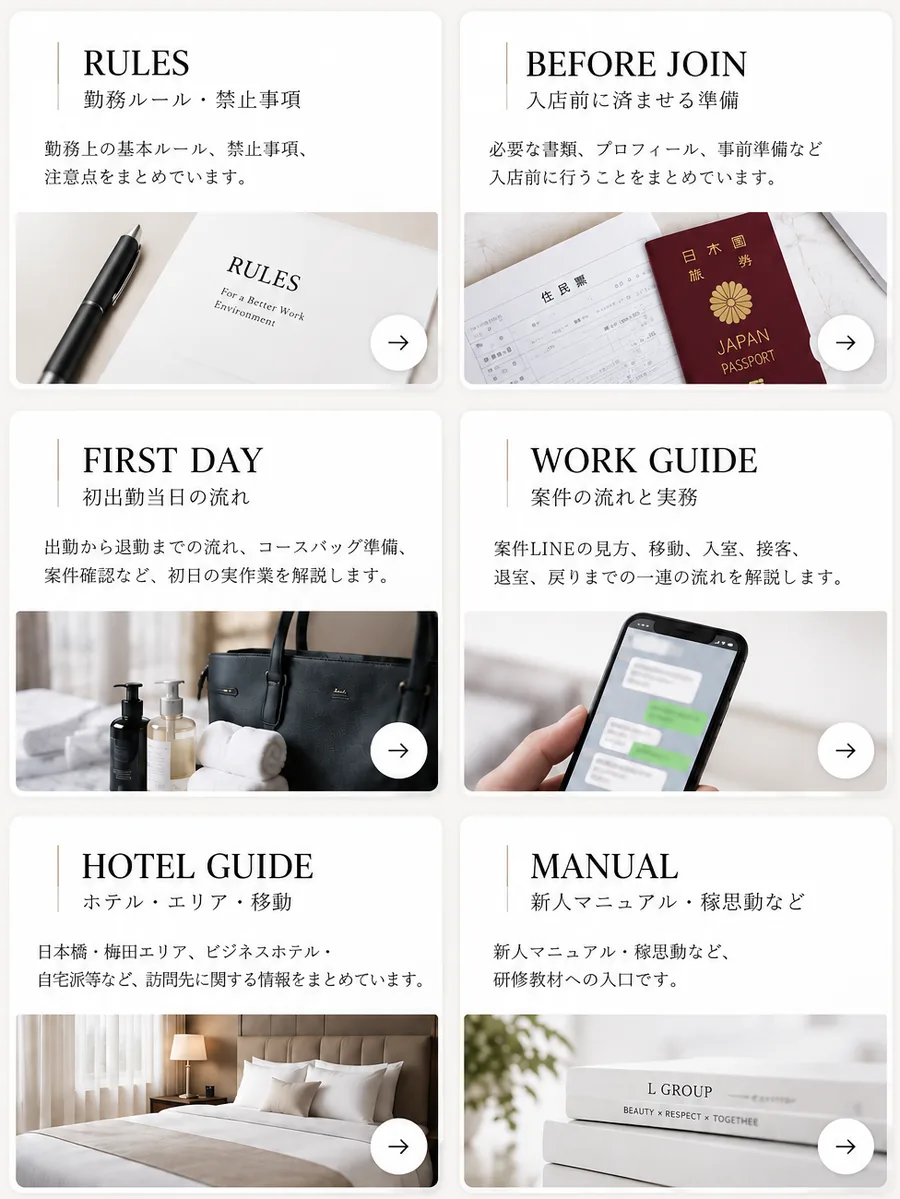
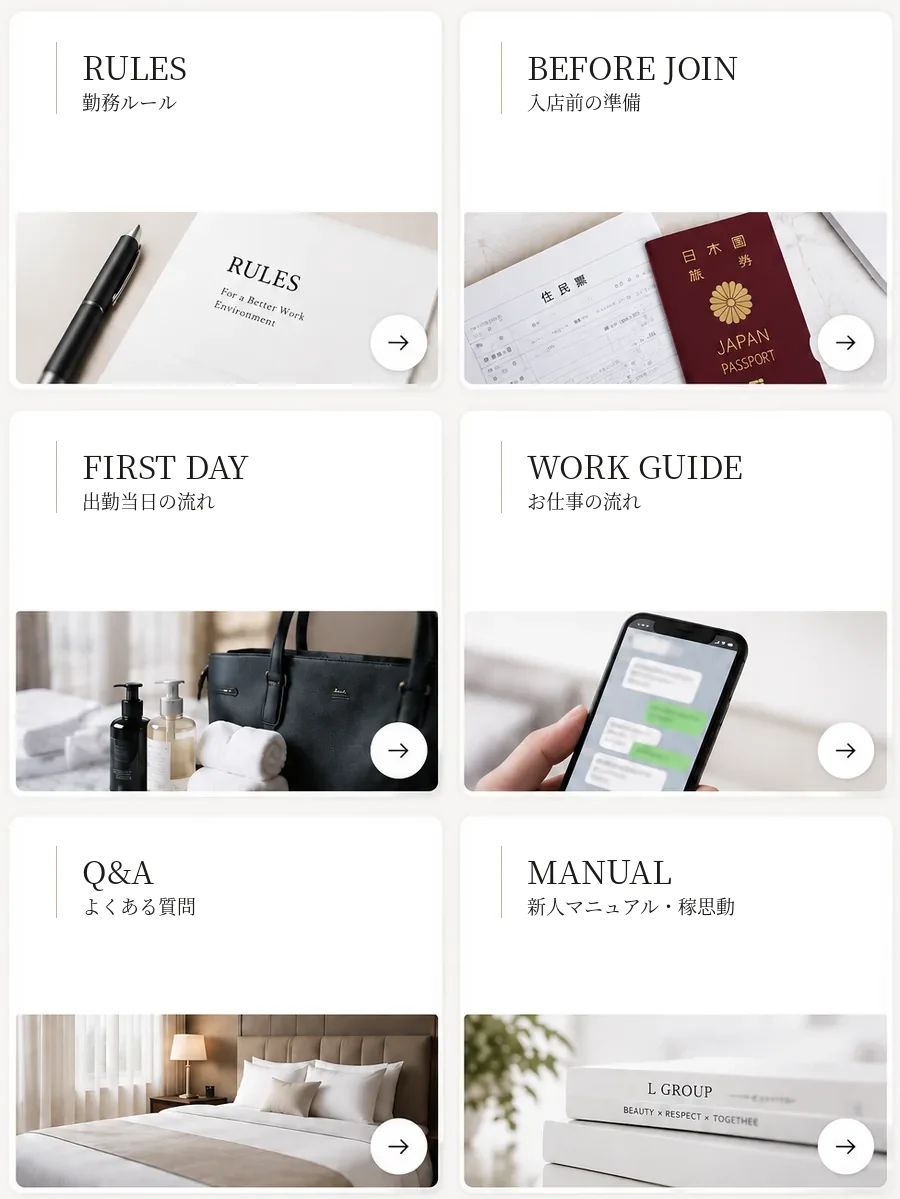
Add files via upload

diff --git a/pages/work-guide.html b/pages/work-guide.html
@@ -1,11 +1,48 @@
 <!doctype html><html lang="ja"><head><meta charset="utf-8">
-<meta name="viewport" content="width=device-width,initial-scale=1">
+<meta name="viewport" content="width=device-width,initial-scale=1,viewport-fit=cover">
+<title>L'GROUP | WORK GUIDE</title>
 <style>
-*{box-sizing:border-box}html,body{margin:0;background:#fff;color:#222;font-family:"Yu Gothic","Hiragino Kaku Gothic ProN",sans-serif}
-main{max-width:430px;margin:auto;padding:72px 24px 90px;text-align:center}
-small{font:10px Georgia,serif;letter-spacing:.18em;color:#a68a58}
-h1{font:400 28px Georgia,serif;letter-spacing:.05em;margin:14px 0}
-p{font-size:12px;color:#777;line-height:1.8}
-</style></head><body><main><small>THERAPIST PRIVATE GUIDE</small><h1>WORK GUIDE</h1><p>このページは現在作成中です。</p></main>
-<script>(function(){function r(){parent.postMessage({type:'lg-height',height:document.documentElement.scrollHeight},'*')};addEventListener('load',r);if(window.ResizeObserver)new ResizeObserver(r).observe(document.documentElement)})();</script>
-</body></html>
+:root{--bg:#f7f6f3;--paper:#fff;--ink:#171717;--sub:#6e6a64;--line:#e8e3dc;--gold:#b7a27b;--section:#ece9e3}
+*{box-sizing:border-box}html,body{margin:0!important;min-height:0!important;height:auto!important;overflow-x:hidden!important;background:#fff!important;color:var(--ink)}
+body{font-family:"Yu Gothic","Hiragino Kaku Gothic ProN","Meiryo",sans-serif;padding:0!important}.page{max-width:430px;margin:auto;background:var(--bg)}
+main{padding:28px 0 0}.pagehead{padding:0 18px 24px}.kicker{font-size:9px;letter-spacing:.2em;color:#a38c64;font-weight:700}
+.pagehead h1{margin:7px 0 8px;font:400 34px Georgia,serif}.pagehead p{margin:0;color:var(--sub);font-size:12px}
+.section{padding:26px 14px 29px;border-top:10px solid var(--section);background:#f8f7f4}.section:first-of-type{border-top:0}
+.sec-head{display:flex;align-items:end;justify-content:space-between;margin-bottom:12px}.sec-head h2{margin:0;font:500 22px "Yu Mincho","Hiragino Mincho ProN",serif}.sec-head small{font:600 8.5px Georgia,serif;color:#a38c64;letter-spacing:.18em}
+.wide{display:block;width:100%;aspect-ratio:16/7;object-fit:cover;border:1px solid var(--line);border-radius:14px;background:#eee;margin:0 0 13px}
+.walk-photo{height:136px;border:1px dashed #d9d0bf;border-radius:14px;background:#f4f1ea;display:grid;place-items:center;color:#9a8e79;font-size:10px;text-align:center;margin-bottom:13px}
+.lead{margin:0 2px 13px;font-size:12px;line-height:1.85;color:#45413c}.map{display:block;width:100%;height:auto;border:1px solid var(--line);border-radius:14px;margin:10px 0 13px;background:#fff}
+.hotels{display:grid;grid-template-columns:1fr 1fr;gap:10px}.hotel{background:#fff;border:1px solid var(--line);border-radius:13px;overflow:hidden}.hotel img{display:block;width:100%;aspect-ratio:1/1;object-fit:cover}.hotel div{padding:9px 7px 10px;text-align:center;font-size:11px;font-weight:700}
+.note,.rule{margin-top:11px;padding:12px 13px;border-radius:9px;font-size:11px;line-height:1.8}.note{background:#faf8f3;border:1px solid #dfd3bd}.rule{background:#fff;border-left:3px solid var(--gold)}
+.arrival{margin:19px 1px 10px;font:500 18px "Yu Mincho","Hiragino Mincho ProN",serif}.dest{display:grid;gap:10px}.card{background:#fff;border:1px solid var(--line);border-radius:13px;padding:14px}.cardtop{display:flex;justify-content:space-between}.cardtop b{font:500 16px "Yu Mincho","Hiragino Mincho ProN",serif}.cardtop em{font:600 8px Georgia,serif;color:#a38c64;letter-spacing:.13em;font-style:normal}.card p{margin:8px 0 0;font-size:11px;line-height:1.8}
+.biz{display:grid;grid-template-columns:1fr 1fr;gap:8px;margin-top:10px}.biz div{padding:10px;background:#faf9f6;border:1px solid var(--line);border-radius:9px}.biz strong{display:block;font-size:11px;margin-bottom:4px}.biz span{font-size:10px;line-height:1.7}
+.steps{display:grid;gap:10px;margin-top:13px}.step{display:grid;grid-template-columns:116px 1fr;height:168px;background:#fff;border:1px solid var(--line);border-radius:13px;overflow:hidden}.photo-pending{height:100%;display:grid;place-items:center;background:linear-gradient(135deg,#f5f2ec,#ebe7df);color:#9b8b70;font-size:9px;text-align:center;padding:9px}
+.stepbody{padding:11px 12px;display:flex;flex-direction:column;justify-content:center}.num{font:600 8px Georgia,serif;color:#a38c64;letter-spacing:.15em;margin-bottom:4px}.step h3{margin:0 0 6px;font:500 15px "Yu Mincho","Hiragino Mincho ProN",serif}.step p,.step li{font-size:10.3px;line-height:1.65}.step p{margin:0}.step ul{margin:0;padding-left:1.08em}.em{font-weight:700}
+.important{margin-top:20px;background:#2c2925;color:#fff;border-radius:13px;overflow:hidden}.imphead{padding:13px 14px 11px;border-bottom:1px solid rgba(255,255,255,.13)}.imphead small{font:600 8px Georgia,serif;color:#d7c39e}.imphead h3{margin:4px 0 0;font:500 18px "Yu Mincho","Hiragino Mincho ProN",serif}.imp{padding:12px 14px;border-bottom:1px solid rgba(255,255,255,.11)}.imp:last-child{border-bottom:0}.imp b{display:block;color:#e4d2af;font-size:11px;margin-bottom:4px}.imp p{margin:0;font-size:10.4px;line-height:1.8;color:#f5f2ec}
+</style></head><body><div class="page"><main>
+<div class="pagehead"><div class="kicker">THERAPIST PRIVATE GUIDE</div><h1>WORK GUIDE</h1><p>お仕事の流れ</p></div>
+<section class="section"><div class="sec-head"><h2>徒歩で移動</h2><small>ON FOOT</small></div>
+<div class="walk-photo">女性がコースバッグを持って歩いている横長画像<br>※画像確定後に差し替え</div>
+<p class="lead">日本橋エリア指定のホテルは徒歩で移動です。</p>
+<img class="map" src="../images/work-map.webp" alt="日本橋ホテルの地図">
+<div class="hotels"><div class="hotel"><img src="../images/work-hotel-luxe.webp" alt=""><div>ラグゼホテル</div></div><div class="hotel"><img src="../images/work-hotel-crystal2.webp" alt=""><div>クリスタルホテル2</div></div><div class="hotel"><img src="../images/work-hotel-eleven.webp" alt=""><div>ホテルイレブン</div></div><div class="hotel"><img src="../images/work-hotel-hills.webp" alt=""><div>ホテル ヒルズ</div></div></div>
+<div class="note">※ホテルイレブンは、<b>大門ゴールドタワービル（1階がLAWSON）の11階</b>にあります。</div>
+<div class="rule">徒歩で移動するホテルは、<b>グループLINEからお部屋番号の連絡があってから</b>向かってください。</div></section>
+<section class="section"><div class="sec-head"><h2>車で移動</h2><small>BY CAR</small></div><img class="wide" src="../images/work-car.webp" alt=""><p class="lead">日本橋の4つのホテル以外は車で移動になります。</p><div class="rule">同乗のセラピストを待たせないよう、<b>コースバッグの準備を終わらせて、いつでも出発できる状態</b>で待機してください。</div>
+<div class="arrival">到着後の動き</div><div class="dest"><div class="card"><div class="cardtop"><b>ラブホテル</b><em>LOVE HOTEL</em></div><p>フロントで向かう部屋番号を伝えてください。</p></div>
+<div class="card"><div class="cardtop"><b>ビジネスホテル</b><em>BUSINESS HOTEL</em></div><div class="biz"><div><strong>直接OK</strong><span>お部屋に直接向かえます。</span></div><div><strong>下迎え</strong><span>お客様が来るまで車で待機し、お客様と一緒にお部屋へ向かいます。</span></div></div><div class="note">※ビジネスホテルによっては、派遣サービスNGのホテルがあります。ホテルのフロントスタッフに話しかけず、困った時はお店に連絡をください。</div></div>
+<div class="card"><div class="cardtop"><b>自宅</b><em>PRIVATE RESIDENCE</em></div><p>通常、お客様にオートロックを解除してもらってお部屋まで向かいます。</p><p>インターフォンを鳴らさないなど、入室が特殊な場合は、<b>予約内容の備考欄</b>に記載しています。</p></div></div></section>
+<section class="section"><div class="sec-head"><h2>入室してから</h2><small>IN ROOM</small></div><img class="wide" src="../images/work-entry.webp" alt="">
+<div class="steps">
+<article class="step"><div class="photo-pending">LINEを打っている写真<br>準備中</div><div class="stepbody"><div class="num">01</div><h3>入室LINE</h3><ul><li>お店に「入室しました」とLINEで連絡</li><li>オプションが<span class="em">付いたか・付いていないか</span>をLINEで連絡</li></ul></div></article>
+<article class="step"><div class="photo-pending">タイマーを押している写真<br>準備中</div><div class="stepbody"><div class="num">02</div><h3>料金・タイマー</h3><ul><li>料金をいただいてタイマーをスタート</li><li>タイマーは<span class="em">コース時間の15分前</span>にセット</li></ul></div></article>
+<article class="step"><div class="photo-pending">ベッドメイキング写真<br>準備中</div><div class="stepbody"><div class="num">03</div><h3>ベッドメイキング</h3><p>お客様がシャワーに行っている間にベッドメイキング。</p></div></article>
+<article class="step"><div class="photo-pending">施術写真<br>準備中</div><div class="stepbody"><div class="num">04</div><h3>施術</h3><ul><li>施術開始</li><li>施術時間は<span class="em">15分前のタイマーが鳴るまで</span>です。</li><li>タイマーが鳴ったら片付けの準備に入ります。</li></ul></div></article>
+<article class="step"><div class="photo-pending">片付け写真<br>準備中</div><div class="stepbody"><div class="num">05</div><h3>片付け</h3><ul><li>お客様がシャワーに行っている間にベッドの片付け</li><li>お客様と入れ替わりでシャワーを浴びる</li></ul></div></article>
+<article class="step"><div class="photo-pending">退室準備写真<br>準備中</div><div class="stepbody"><div class="num">06</div><h3>退室準備</h3><ul><li>掛布団やタオルなどホテルの備品を片付ける</li><li><span class="em">店舗備品の忘れ物チェック</span></li></ul></div></article>
+<article class="step"><div class="photo-pending">退室LINE写真<br>準備中</div><div class="stepbody"><div class="num">07</div><h3>退室LINE</h3><p>お店に「退室しました」とLINEで送信。</p></div></article>
+</div><div class="important"><div class="imphead"><small>IMPORTANT</small><h3>注意事項</h3></div>
+<div class="imp"><b>入室連絡について</b><p>入室LINEから計算して、お迎えの車の手配をしてます。入室連絡がなければスムーズな配車が出来ませんので、必ずLINEで連絡をください。</p></div>
+<div class="imp"><b>店舗備品の忘れ物について</b><p>水筒、防水シーツ、マイクロビキニなど、店舗備品の忘れ物が頻繁に起こっています。今以上増えるようであれば、店舗備品は買取りとしますので、十分お気を付けください。</p></div>
+<div class="imp"><b>お預かりした料金について</b><p>お客様から預かった料金は、お店に戻ってスタッフに渡すまでセラピストさんの責任になります。金銭の紛失や金額間違えなど、セラピスト負担になりますので、お気を付けください。</p></div></div></section>
+</main></div><script>(function(){function r(){parent.postMessage({type:'lg-height',height:document.documentElement.scrollHeight},'*')};addEventListener('load',()=>setTimeout(r,30));if(window.ResizeObserver)new ResizeObserver(()=>requestAnimationFrame(r)).observe(document.documentElement);setTimeout(r,150);setTimeout(r,600)})();</script></body></html>

diff --git a/pages/first-day.html b/pages/first-day.html
@@ -4,7 +4,7 @@
 <head>
 <meta charset="utf-8"/>
 <meta content="width=device-width,initial-scale=1,viewport-fit=cover" name="viewport"/>
-<title>FIRST DAY | L GROUP</title>
+<title>FIRST DAY | L'GROUP</title>
 <style>
 :root{--bg:#f7f6f3;--card:#fff;--ink:#171717;--sub:#77736c;--line:#e7e2d9;--gold:#a88a4b}
 *{box-sizing:border-box} body{margin:0;background:var(--bg);color:var(--ink);font-family:-apple-system,BlinkMacSystemFont,"Noto Sans JP","Yu Gothic",sans-serif}
@@ -22,7 +22,7 @@ main{padding:29px 16px 48px}.eyebrow{font:10px Georgia,serif;letter-spacing:.24e
 .bag-link{display:block;margin:0 15px 16px;padding:13px 15px;border:1px solid #c9b27d;color:#826b37;text-decoration:none;text-align:center;font-size:12px;font-weight:600;letter-spacing:.03em;background:#fff}.bag-link span{margin-left:7px}
 .note{font-size:10px;color:#aaa49b;text-align:center;margin-top:4px}
 
-.reservation-image-wrap{padding:0 15px 17px}.zoom-image{display:block;width:100%;padding:0;border:0;background:none;cursor:zoom-in}.zoom-image img{display:block;width:100%;height:auto;border:1px solid var(--line);border-radius:10px}.zoom-hint{text-align:center;font-size:10px;color:#9a958c;margin-top:8px}.image-modal{position:fixed;inset:0;z-index:9999;background:rgba(0,0,0,.92);display:none;align-items:center;justify-content:center;padding:12px}.image-modal.open{display:flex}.image-modal-scroll{width:100%;height:100%;overflow:auto;-webkit-overflow-scrolling:touch}.image-modal img{display:block;width:min(980px,180vw);max-width:none;height:auto;margin:36px auto 60px}.image-modal-close{position:fixed;top:12px;right:14px;z-index:10000;width:42px;height:42px;border:1px solid rgba(255,255,255,.45);border-radius:50%;background:rgba(0,0,0,.55);color:#fff;font-size:26px;line-height:38px}.image-modal-note{position:fixed;left:50%;bottom:12px;transform:translateX(-50%);color:#fff;font-size:11px;background:rgba(0,0,0,.6);padding:7px 12px;border-radius:20px;white-space:nowrap}
+.reservation-image-wrap{padding:0 15px 17px}.zoom-image{display:block;width:100%;padding:0;border:0;background:none;cursor:zoom-in}.zoom-image img{display:block;width:100%;height:auto;border:1px solid var(--line);border-radius:10px}.zoom-hint{text-align:center;font-size:10px;color:#9a958c;margin-top:8px}.image-modal{position:fixed;inset:0;z-index:9999;background:rgba(0,0,0,.92);display:none;overflow:auto;-webkit-overflow-scrolling:touch;padding:54px 12px 28px}.image-modal.open{display:block}.image-modal-scroll{width:100%;min-height:100%;overflow:visible}.image-modal img{display:block;width:94%;max-width:410px;height:auto;margin:0 auto 48px;background:#fff}.image-modal-close{position:fixed;top:12px;right:14px;z-index:10000;width:42px;height:42px;border:1px solid rgba(255,255,255,.45);border-radius:50%;background:rgba(0,0,0,.55);color:#fff;font-size:26px;line-height:38px}.image-modal-note{position:fixed;left:50%;bottom:12px;transform:translateX(-50%);color:#fff;font-size:11px;background:rgba(0,0,0,.6);padding:7px 12px;border-radius:20px;white-space:nowrap}
 </style>
 <style>
 html,body{margin:0!important;min-height:0!important;height:auto!important;overflow-x:hidden!important;background:#fff!important}
@@ -34,11 +34,11 @@ body::after{content:none!important;display:none!important}
 <body><div class="shell">
 
 <main>
-<p class="eyebrow">L GROUP JOIN GUIDE</p><h1 class="page-title">FIRST DAY</h1><p class="lead">初出勤日の店舗内での流れを確認してください。</p>
+<p class="eyebrow">L'GROUP JOIN GUIDE</p><h1 class="page-title">FIRST DAY</h1><p class="lead">初出勤日の店舗内での流れを確認してください。</p>
 <section class="card"><div class="photo"><img alt="出勤" src="../images/first-day-01.webp"/><div class="title"><div class="jp">出勤</div><div class="en">ARRIVAL</div></div></div><div class="text-space"><p><strong>出勤時間は、お店を出発する時間です。</strong><br/>コースバッグの準備や化粧直しなどを含め、出勤時間の10〜15分前にはお店に到着してください。</p></div></section>
 <section class="card"><div class="photo"><img alt="コースバッグ準備" src="../images/first-day-02.webp"/><div class="title"><div class="jp">コースバッグ準備</div><div class="en">COURSE BAG</div></div></div><div class="text-space"><p>出勤したら、まずコースバッグの準備をしてください。<br/><strong>オイルも温めて、いつでも出発できる状態にしてください。</strong></p></div><div aria-label="コースバッグ準備チェック" class="bag-checklist"><label class="bag-check"><input onclick="event.stopPropagation();" type="checkbox"/><span>タイマー／紙パンツ・スポンジ</span></label><label class="bag-check"><input onclick="event.stopPropagation();" type="checkbox"/><span>マイクロビキニ／洗濯ネット・施術衣装</span></label><label class="bag-check"><input onclick="event.stopPropagation();" type="checkbox"/><span>バスタオル／防水シーツ</span></label><label class="bag-check"><input onclick="event.stopPropagation();" type="checkbox"/><span>オイルを温めた</span></label><label class="bag-check"><input onclick="event.stopPropagation();" type="checkbox"/><span>ポーチを預かった</span></label></div><a class="bag-link" href="../pages/course-bag.html" target="_self">コースバッグの中身を見る <span>›</span></a></section>
 <section class="card"><div class="photo"><img alt="予約内容" src="../images/first-day-03.webp"/><div class="title"><div class="jp">予約内容</div><div class="en">RESERVATION</div></div></div><div class="text-space"><p><strong>ご予約成約後すぐに予約LINEが届きます。</strong><br/>予約LINEはすぐに確認してください。</p></div><div class="reservation-image-wrap"><button aria-label="予約LINEの見方を拡大表示" class="zoom-image" type="button"><img alt="予約内容の見方" src="../images/first-reservation-guide.webp"/></button><div class="zoom-hint">画像をタップすると拡大できます</div></div></section><section class="card"><div class="photo"><img alt="退勤" src="../images/first-day-05.webp"/><div class="title"><div class="jp">退勤</div><div class="en">LEAVE</div></div></div><div class="text-space"><p><strong>退勤時間の90分前に受付終了となります。</strong><br/>受付が終了したら、<strong>報酬を精算して退勤となります。</strong><br/>次回のシフトが未定の場合、退勤前にシフトを提出してください。</p></div></section>
-</main></div><div aria-hidden="true" class="image-modal" id="imageModal"><button aria-label="閉じる" class="image-modal-close" type="button">×</button><div class="image-modal-scroll"><img alt="予約内容の見方" src="../images/first-reservation-guide.webp"/></div><div class="image-modal-note">スクロールして確認できます</div></div><script>(function(){const m=document.getElementById('imageModal');const open=document.querySelector('.zoom-image');const close=m.querySelector('.image-modal-close');function show(){m.classList.add('open');m.setAttribute('aria-hidden','false');document.body.style.overflow='hidden';}function hide(){m.classList.remove('open');m.setAttribute('aria-hidden','true');document.body.style.overflow='';}open.addEventListener('click',show);close.addEventListener('click',hide);m.addEventListener('click',e=>{if(e.target===m)hide();});document.addEventListener('keydown',e=>{if(e.key==='Escape')hide();});})();</script><script>
+</main></div><div aria-hidden="true" class="image-modal" id="imageModal"><button aria-label="閉じる" class="image-modal-close" type="button">×</button><div class="image-modal-scroll"><img alt="予約内容の見方" src="../images/first-reservation-guide.webp"/></div><div class="image-modal-note">スクロールして確認できます</div></div><script>(function(){const m=document.getElementById('imageModal');const open=document.querySelector('.zoom-image');const close=m.querySelector('.image-modal-close');const mi=m.querySelector('.image-modal-scroll img');const th=open?open.querySelector('img'):null;function show(){if(th&&mi)mi.src=th.getAttribute('src');m.classList.add('open');m.setAttribute('aria-hidden','false');document.body.style.overflow='hidden';m.scrollTop=0;}function hide(){m.classList.remove('open');m.setAttribute('aria-hidden','true');document.body.style.overflow='';}if(open)open.addEventListener('click',show);if(close)close.addEventListener('click',hide);m.addEventListener('click',e=>{if(e.target===m)hide();});document.addEventListener('keydown',e=>{if(e.key==='Escape')hide();});})();</script><script>
 (function(){
   function report(){
     const h=Math.max(document.documentElement.scrollHeight,document.body.scrollHeight);

diff --git a/index.html b/index.html
@@ -1,31 +1,31 @@
 <!doctype html>
 <html lang="ja"><head><meta charset="utf-8"><meta name="viewport" content="width=device-width,initial-scale=1,viewport-fit=cover">
-<title>L GROUP | PRIVATE GUIDE</title><link rel="stylesheet" href="css/style.css"></head>
+<title>L'GROUP | PRIVATE GUIDE</title><link rel="stylesheet" href="css/style.css"></head>
 <body class="locked">
 <section id="lock"><div class="lock-card"><div>
-<div class="brand"><div class="mark">L</div><div class="brandname">L GROUP</div><div class="tag">BEAUTY × RESPECT × TOGETHER</div></div>
-<div class="welcome"><div class="kicker">THERAPIST PRIVATE GUIDE</div><h1>WELCOME</h1><div class="to">TO L GROUP</div><div class="goldline"></div><div class="copy">L GROUPへようこそ。<br>入店前の準備から、お仕事に必要な情報まで<br>こちらからご確認いただけます。</div></div>
+<div class="brand"><img class="brand-logo-img" src="images/lgroup-logo.webp" alt="L'GROUP"></div>
+<div class="welcome"><div class="kicker">THERAPIST PRIVATE GUIDE</div><h1>WELCOME</h1><div class="to">TO L'GROUP</div><div class="goldline"></div></div>
 <form class="form" id="login"><label>PASSWORD</label><input id="pw" type="password" inputmode="numeric" autocomplete="current-password" placeholder="パスワードを入力"><button class="enter" type="submit">ENTER GUIDE →</button><div id="error"></div></form>
-</div><div class="foot"><b>L GROUP</b><span>FOR A BETTER TOMORROW</span></div></div></section>
+</div><div class="foot"><b>L'GROUP</b><span>BEAUTY FOR A BETTER TOMORROW</span></div></div></section>
 
 <section id="portal"><header class="common-header"><div class="head-row">
-<button class="logo-button" type="button" data-page="top"><span class="logo-mark">L</span><span class="logo-name">L GROUP</span></button>
+<button class="logo-button" type="button" data-page="top"><img class="header-logo-img" src="images/lgroup-logo.webp" alt="L'GROUP"></button>
 <button class="lockout" id="lockout" type="button">LOCK</button></div>
 <nav class="nav-grid">
 <button class="nav-btn" data-page="rules">RULES</button><button class="nav-btn" data-page="before">BEFORE JOIN</button><button class="nav-btn" data-page="first">FIRST DAY</button>
-<button class="nav-btn" data-page="work">WORK GUIDE</button><button class="nav-btn" data-page="hotel">HOTEL GUIDE</button><button class="nav-btn" data-page="manual">MANUAL</button>
+<button class="nav-btn" data-page="work">WORK GUIDE</button><button class="nav-btn" data-page="qa">Q&amp;A</button><button class="nav-btn" data-page="manual">MANUAL</button>
 </nav></header>
 
 <main class="content-shell">
-<section id="topPage"><div class="top-visual"><img src="images/top-cards.webp" alt="L GROUP GUIDE TOP"><div class="top-overlay">
+<section id="topPage"><div class="top-visual"><img src="images/top-cards.webp" alt="L'GROUP GUIDE TOP" ><div class="top-overlay">
 <button class="card-link r1c1" data-page="rules" aria-label="RULES"></button><button class="card-link r1c2" data-page="before" aria-label="BEFORE JOIN"></button>
 <button class="card-link r2c1" data-page="first" aria-label="FIRST DAY"></button><button class="card-link r2c2" data-page="work" aria-label="WORK GUIDE"></button>
-<button class="card-link r3c1" data-page="hotel" aria-label="HOTEL GUIDE"></button><button class="card-link r3c2" data-page="manual" aria-label="MANUAL"></button>
+<button class="card-link r3c1" data-page="qa" aria-label="Q&amp;A"></button><button class="card-link r3c2" data-page="manual" aria-label="MANUAL"></button>
 </div></div></section>
-<div id="framewrap"><iframe id="view" title="L GROUP GUIDE"></iframe></div>
+<div id="framewrap"><iframe id="view" title="L'GROUP GUIDE" ></iframe></div>
 <div class="bottom-wrap" id="bottomWrap"><nav class="bottom-nav">
 <button class="bottom-btn" data-page="rules">RULES</button><button class="bottom-btn" data-page="before">BEFORE JOIN</button><button class="bottom-btn" data-page="first">FIRST DAY</button>
-<button class="bottom-btn" data-page="work">WORK GUIDE</button><button class="bottom-btn" data-page="hotel">HOTEL GUIDE</button><button class="bottom-btn" data-page="manual">MANUAL</button>
+<button class="bottom-btn" data-page="work">WORK GUIDE</button><button class="bottom-btn" data-page="qa">Q&amp;A</button><button class="bottom-btn" data-page="manual">MANUAL</button>
 </nav></div>
 </main></section>
 <script src="js/app.js"></script></body></html>

diff --git a/pages/before-join.html b/pages/before-join.html
@@ -2,7 +2,7 @@
 
 <html lang="ja"><head>
 <meta charset="utf-8"/><meta content="width=device-width,initial-scale=1,viewport-fit=cover" name="viewport"/>
-<title>L GROUP | BEFORE JOIN</title>
+<title>L'GROUP | BEFORE JOIN</title>
 <style>
 :root{--bg:#f7f7f5;--paper:#fff;--ink:#171717;--sub:#6f6d68;--line:#e6e3de;--gold:#aa956e;--soft:#f5f4f1;--dark:#282828}
 *{box-sizing:border-box}html,body{margin:0;background:#ecebe8;color:var(--ink)}body{font-family:"Yu Gothic","Hiragino Kaku Gothic ProN","Meiryo",sans-serif}
@@ -76,11 +76,17 @@ body::after{content:none!important;display:none!important}
 </main>
 <script>
 const copyText='メールアドレス：\n名前：（希望があれば）\n年齢：\n身長：cm\nバスト：カップ\n血液型：\n得意なマッサージ：\n好きな食べ物：\n好きな男性のタイプ：\n似ている芸能人：\n趣味：\n特技：\n性格：\n自己紹介メッセージ：\n自己紹介メッセージは、お客様へのアピール文章です。短文にならないように作成してください。';
-document.getElementById("copyBtn").onclick=async function(){
-try{await navigator.clipboard.writeText(copyText)}catch(e){let t=document.createElement("textarea");t.value=copyText;document.body.appendChild(t);t.select();document.execCommand("copy");t.remove()}
-this.textContent="コピーしました";setTimeout(()=>this.textContent="プロフィール作成フォーマットをコピー",1400)
-};
-</script></div><script>
+const copyBtn=document.getElementById('copyBtn');
+if(copyBtn) copyBtn.addEventListener('click',async function(){
+ let ok=false;
+ try{if(navigator.clipboard&&window.isSecureContext){await navigator.clipboard.writeText(copyText);ok=true;}}catch(e){}
+ if(!ok){
+  const ta=document.createElement('textarea');ta.value=copyText;ta.setAttribute('readonly','');
+  ta.style.position='fixed';ta.style.left='-9999px';document.body.appendChild(ta);ta.focus();ta.select();ta.setSelectionRange(0,ta.value.length);
+  try{ok=document.execCommand('copy');}catch(e){} ta.remove();
+ }
+ if(ok){this.textContent='コピーしました';this.disabled=true;setTimeout(()=>{this.textContent='プロフィール作成フォーマットをコピー';this.disabled=false;},1800);}
+});
 (function(){
   const btn=document.getElementById('copyBtn');
   if(!btn) return;

diff --git a/css/style.css b/css/style.css
@@ -30,3 +30,8 @@ h1{margin:7px 0 5px;font:400 34px Georgia,serif;letter-spacing:.06em}.to{font:11
 .bottom-wrap{background:#fbfaf8;border-top:1px solid var(--line);padding:12px 8px 10px}.bottom-nav{gap:6px}.bottom-btn{min-height:38px;border:1px solid #ddd8cf;background:#fff;border-radius:8px;padding:5px 2px}.bottom-btn.active{background:#272622;color:#fff;border-color:#272622}
 @media(min-width:700px){#portal{max-width:430px;margin:auto;box-shadow:0 0 32px rgba(0,0,0,.08)}}
 @media(max-height:700px){.lock-card{padding-top:17px;padding-bottom:15px}.welcome{margin-top:14px}.copy{line-height:1.45}.form{margin-top:14px}.enter{height:42px;margin-top:12px}}
+
+.brand-logo-img{display:block;width:min(250px,72vw);height:150px;object-fit:contain;margin:0 auto}
+.logo-button{width:134px;height:34px;overflow:hidden}
+.header-logo-img{display:block;width:100%;height:100%;object-fit:contain;object-position:left center}
+@media(max-height:700px){.brand-logo-img{height:116px}.goldline{margin:10px 0}}

diff --git a/pages/q-and-a.html b/pages/q-and-a.html
@@ -1,0 +1,10 @@
+<!doctype html><html lang="ja"><head><meta charset="utf-8">
+<meta name="viewport" content="width=device-width,initial-scale=1">
+<style>*{box-sizing:border-box}html,body{margin:0;background:#fff;color:#222;font-family:"Yu Gothic","Hiragino Kaku Gothic ProN",sans-serif}
+main{max-width:430px;margin:auto;padding:72px 24px 90px;text-align:center}
+small{font:10px Georgia,serif;letter-spacing:.18em;color:#a68a58}
+h1{font:400 28px Georgia,serif;letter-spacing:.05em;margin:14px 0}
+p{font-size:12px;color:#777;line-height:1.8}</style></head>
+<body><main><small>THERAPIST PRIVATE GUIDE</small><h1>Q&amp;A</h1><p>よくある質問</p><p>このページは現在作成中です。</p></main>
+<script>(function(){function r(){parent.postMessage({type:'lg-height',height:document.documentElement.scrollHeight},'*')};addEventListener('load',r);if(window.ResizeObserver)new ResizeObserver(r).observe(document.documentElement)})();</script>
+</body></html>

diff --git a/pages/course-bag.html b/pages/course-bag.html
@@ -1,6 +1,6 @@
 <!DOCTYPE html>
 
-<html lang="ja"><head><meta charset="utf-8"/><meta content="width=device-width,initial-scale=1,viewport-fit=cover" name="viewport"/><title>COURSE BAG｜L GROUP</title><style>
+<html lang="ja"><head><meta charset="utf-8"/><meta content="width=device-width,initial-scale=1,viewport-fit=cover" name="viewport"/><title>COURSE BAG｜L'GROUP</title><style>
 :root{--bg:#f8f7f3;--card:#fff;--text:#1d1d1b;--muted:#77736b;--line:#e5dfd3;--gold:#a9833f;--gold2:#c9b27c}
 *{box-sizing:border-box}html,body{margin:0;background:var(--bg);color:var(--text);font-family:-apple-system,BlinkMacSystemFont,"Segoe UI","Hiragino Kaku Gothic ProN","Yu Gothic",Meiryo,sans-serif}
 body{display:flex;justify-content:center}.page{width:100%;max-width:430px;min-height:100vh;background:#fff}

diff --git a/pages/rules.html b/pages/rules.html
@@ -4,7 +4,7 @@
 <head>
 <meta charset="utf-8"/>
 <meta content="width=device-width,initial-scale=1,viewport-fit=cover" name="viewport"/>
-<title>L GROUP | RULES</title>
+<title>L'GROUP | RULES</title>
 <style>
 :root{
   --bg:#f7f6f3;--paper:#fff;--ink:#171717;--sub:#6e6a64;

diff --git a/js/app.js b/js/app.js
@@ -4,7 +4,7 @@ const PAGE_URLS={
   before:'pages/before-join.html',
   first:'pages/first-day.html',
   work:'pages/work-guide.html',
-  hotel:'pages/hotel-guide.html',
+  qa:'pages/q-and-a.html',
   manual:'pages/manual.html',
   course:'pages/course-bag.html'
 };
